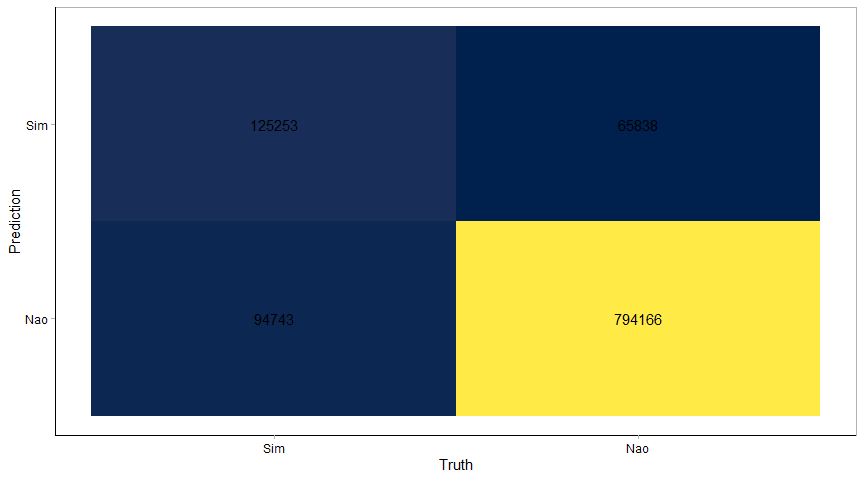
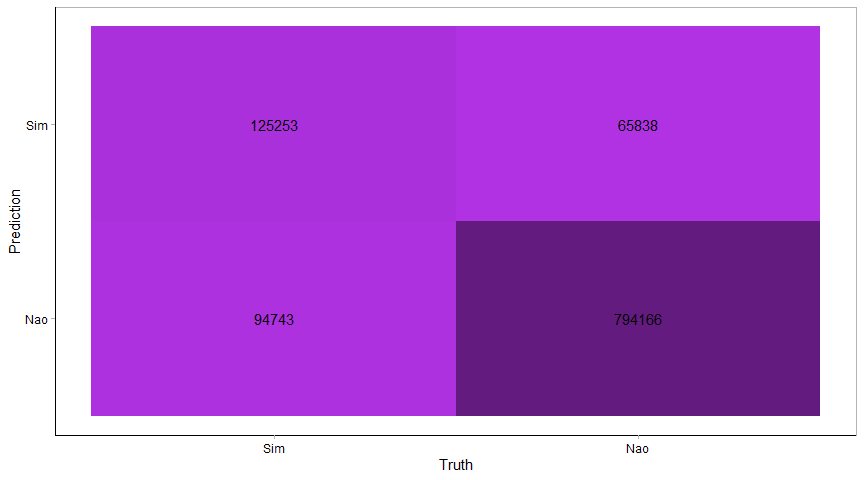
19/12

diff --git a/Churn.md b/Churn.md
@@ -17,6 +17,7 @@ Rodrigo F. Pizzinato
     -   [Balanceamento de classes](#balanceamento-de-classes)
 -   [Matriz de confusão com classes
     balanceadas](#matriz-de-confusão-com-classes-balanceadas)
+-   [Último fit do modelo](#último-fit-do-modelo)
 -   [Importância das variáveis](#importância-das-variáveis)
 
 # O problema de negócio
@@ -145,7 +146,7 @@ map_dbl(data, ~ sum(is.na(.x)))
     ## is_active_member estimated_salary           exited 
     ##                0                0                0
 
--   Não há valores missing no conjunto de dados.
+-   Não há valores faltantes no conjunto de dados.
 
 ``` r
 dim(data)
@@ -441,16 +442,16 @@ churn_rec %>%
     ## # A tibble: 12,740 x 13
     ##    credit_score    age  tenure balance num_of_~1 estim~2 geogr~3 geogr~4 geogr~5
     ##           <dbl>  <dbl>   <dbl>   <dbl>     <dbl>   <dbl>   <dbl>   <dbl>   <dbl>
-    ##  1       0.551   0.140 -1.55    -1.32      0.873  0.242        1       0       0
-    ##  2       1.83    0.518 -0.884    0.769    -0.950  0.0707       0       0       1
-    ##  3      -1.63    0.607 -0.0506   0.791     0.873  0.0167       1       0       0
-    ##  4       0.408  -1.27  -0.884    0.782    -0.950 -0.0273       1       0       0
-    ##  5      -1.29   -0.744  0.498    0.732     0.873  0.0845       1       0       0
-    ##  6      -1.68   -1.72  -0.415   -1.32      0.873  0.0359       0       0       1
-    ##  7      -1.97   -0.389  1.24    -1.32      0.873 -1.04         1       0       0
-    ##  8      -1.03   -1.57   0.247   -1.32      0.873  0.955        1       0       0
-    ##  9      -0.0786 -0.277  0.716   -1.32      0.873 -0.112        0       0       1
-    ## 10      -0.278   0.694 -0.415    0.792     0.873 -0.137        0       1       0
+    ##  1      -0.366   0.329 -1.54     0.698    -0.944  0.420        0       0       1
+    ##  2       0.549   0.135 -1.54    -1.32      0.880  0.239        1       0       0
+    ##  3       1.83    0.514 -0.877    0.770    -0.944  0.0679       0       0       1
+    ##  4       1.61    1.10   0.722   -1.32      0.880 -1.99         1       0       0
+    ##  5      -1.64    0.604 -0.0441   0.792     0.880  0.0142       1       0       0
+    ##  6       0.407  -1.28  -0.877    0.783    -0.944 -0.0296       1       0       0
+    ##  7      -1.69   -1.73  -0.408   -1.32      0.880  0.0333       0       0       1
+    ##  8      -1.97   -0.396  1.24    -1.32      0.880 -1.03         1       0       0
+    ##  9      -1.04   -1.58   0.253   -1.32      0.880  0.947        1       0       0
+    ## 10      -0.0810 -0.284  0.722   -1.32      0.880 -0.113        0       0       1
     ## # ... with 12,730 more rows, 4 more variables: gender_Male <dbl>,
     ## #   has_cr_card_Sim <dbl>, is_active_member_Sim <dbl>, exited <fct>, and
     ## #   abbreviated variable names 1: num_of_products, 2: estimated_salary,
@@ -590,18 +591,35 @@ xgb_rs_balanced %>%
   collect_predictions() %>% 
   conf_mat(exited, .pred_class) %>% 
   ggplot2::autoplot(type = "heatmap") +
-  ggplot2::scale_fill_viridis_c(option = "E")
+  ggplot2::scale_fill_gradient(low = "#b132e3", high = "#631b80")
 ```
 
 ![](Churn_files/figure-gfm/unnamed-chunk-20-1.png)<!-- -->
 
-# Importância das variáveis
+A matriz de confusão indica que há um maior número de falso negativo do
+que falso positivo, ou seja, um precision maior que o recall.
+
+![matriz confusao](Churn_files/figure-gfm/matriz-de-confusao.png)  
+Sendo  
+$$Precision = \frac{VP}{VP+FN}$$ E $$Recall = \frac{VP}{VP+FP}$$
+
+Detectar que um cliente deu churn quando na verdade ele não deu, ou o
+contrário, que não ocorreu o churn mas na realidade ocorreu, são
+situações que envolvem um custo para a empresa. De toda forma, as duas
+devem ser evitadas, por isso acredito que a escolha da métrica F1-score
+continua sendo a mais relevante nesse caso.
+
+# Último fit do modelo
 
 ``` r
 xgb_last_fit <- xgb_wf_balanced %>% 
   finalize_workflow(select_best(xgb_rs_balanced, metric = "f_meas")) %>% 
-  last_fit(split)
+  last_fit(split, metrics = metric_set(accuracy, f_meas, recall, precision))
+```
 
+# Importância das variáveis
+
+``` r
 # xgb_last_fit %>%
 #   extract_workflow() %>%
 #   extract_fit_parsnip() %>%
@@ -620,7 +638,7 @@ xgb_last_fit %>%
        title = "Importância das variáveis (XGBoost)")
 ```
 
-![](Churn_files/figure-gfm/unnamed-chunk-21-1.png)<!-- -->
+![](Churn_files/figure-gfm/unnamed-chunk-22-1.png)<!-- -->
 
 Como esperado, a idade demonstrou ser a variável mais importante para
 predição do churn. Logo em seguida vem o número de produtos adquiridos
